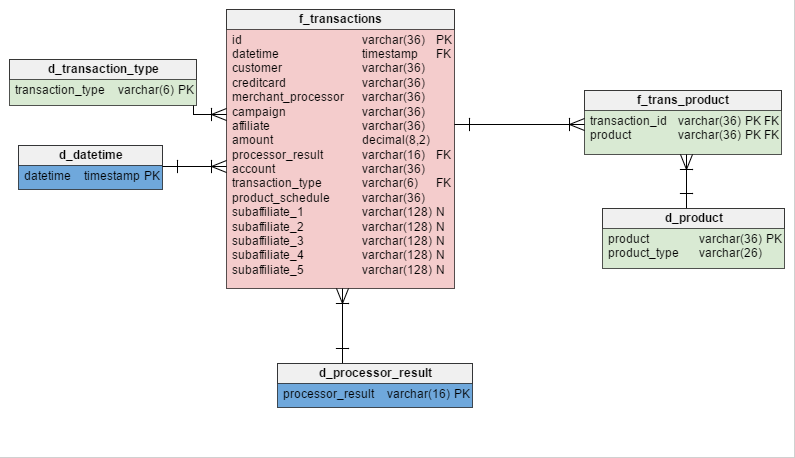
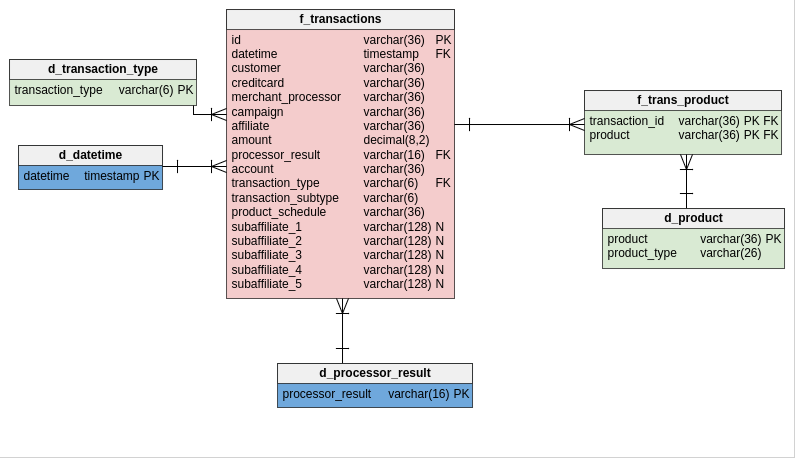
Model and generator update for a new column
Former-commit-id: 0fe9129c77e670f875f47c171d619f499aacf51f

diff --git a/extra/aws/redshift/script_csv_generator.py b/extra/aws/redshift/script_csv_generator.py
@@ -45,6 +45,7 @@ w.writerow(('id',
  'result',
  'account',
  'type',
+ 'subtype',
  'schedule',
  'subaffiliate_1'
 ,'subaffiliate_2'
@@ -56,5 +57,5 @@ w.writerow(('id',
 for i in range(1000000):
     w.writerow((uuid.uuid4(),random_date(d1,d2),random.choice(customers),random.choice(credit_card),
       random.choice(merch_processor),random.choice(campaign),random.choice(affiliate),random.uniform(1, 10000),
-      random.choice(["success", "decline", "error"]),random.choice(account),random.choice(["rebill", "new"]),random.choice(schedule), '','','','',''))
+      random.choice(["success", "decline", "error"]),random.choice(account),random.choice(["rebill", "new"]),random.choice(["upsell", "main"]),random.choice(schedule), '','','','',''))
 g.close()
